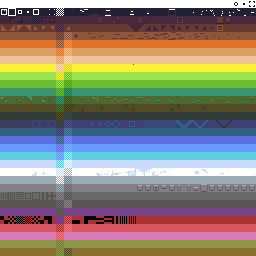
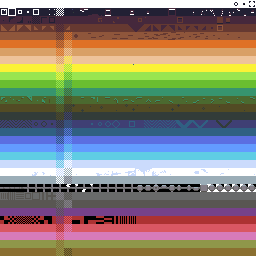
more tile art, more map design in combat test area

Changed region(s): [[0.0, 0.7188, 0.7812, 0.75], [0.8125, 0.7188, 1.0, 0.75]]

diff --git a/js/core/world.js b/js/core/world.js
@@ -115,8 +115,8 @@ World.prototype.drawMap = function(){
                         if(inventory.items.torch && inventory.selectedItem == 'torch'){
                             this.drawLightGridRadius(i,j,player,50, "#202030");
                         }
-                        this.drawFilledTile(i,j,tile);
-                        //this.drawImageTile(i,j,tile);
+                        //this.drawFilledTile(i,j,tile);
+                        this.drawImageTile(i,j,tile);
                         break;
                     case COLOR_DIRTY_RED:{
                         this.drawGlitchTile(i,j,tile);
